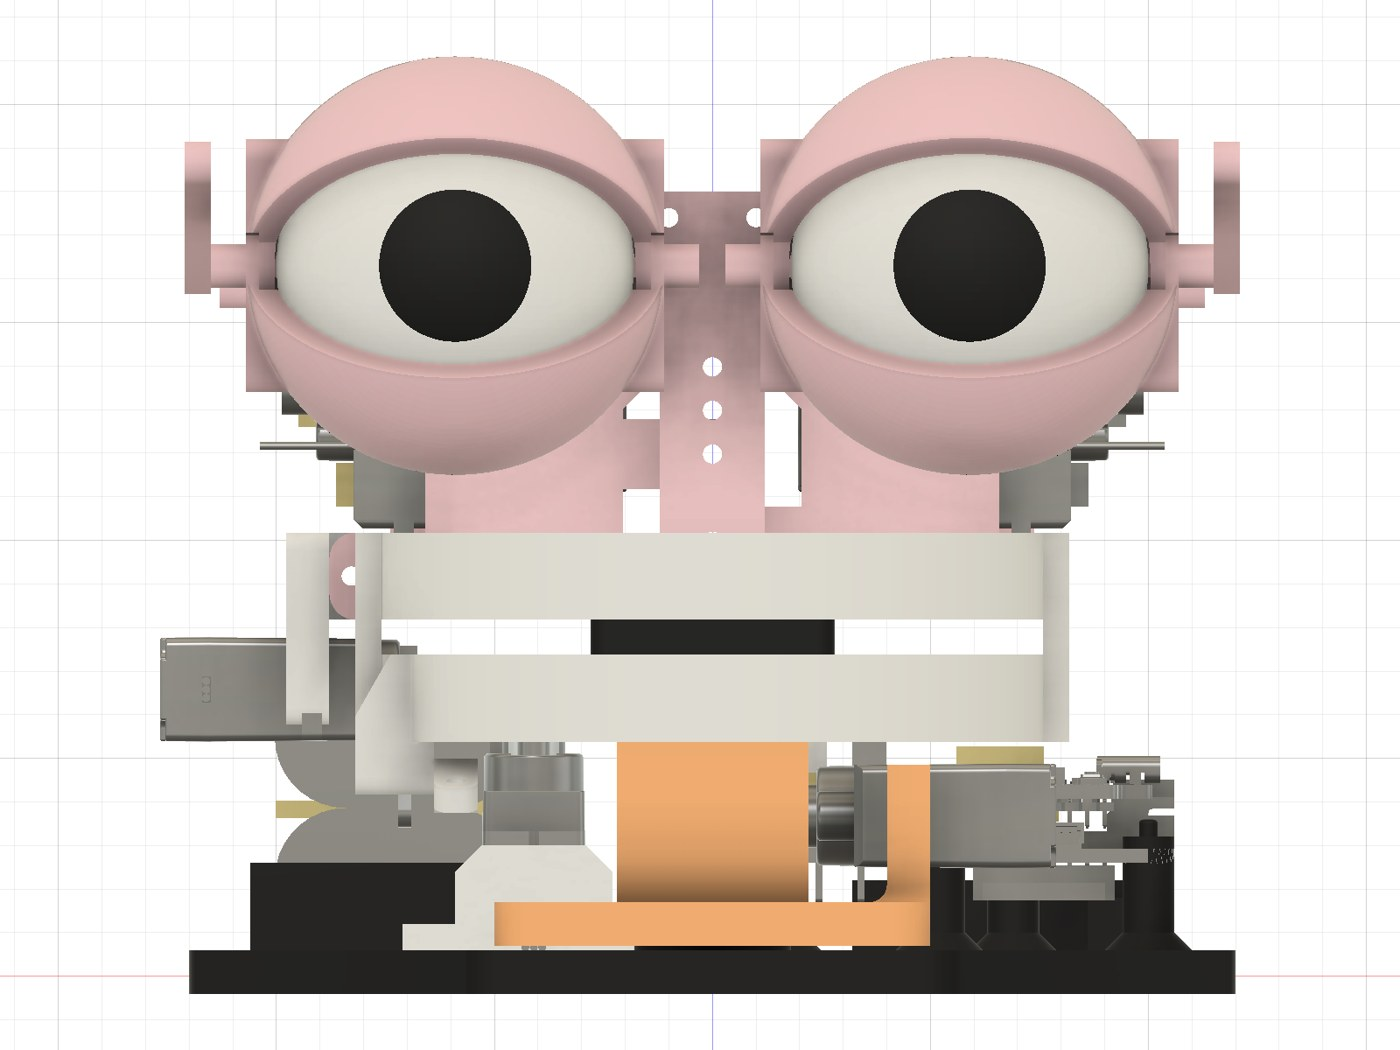
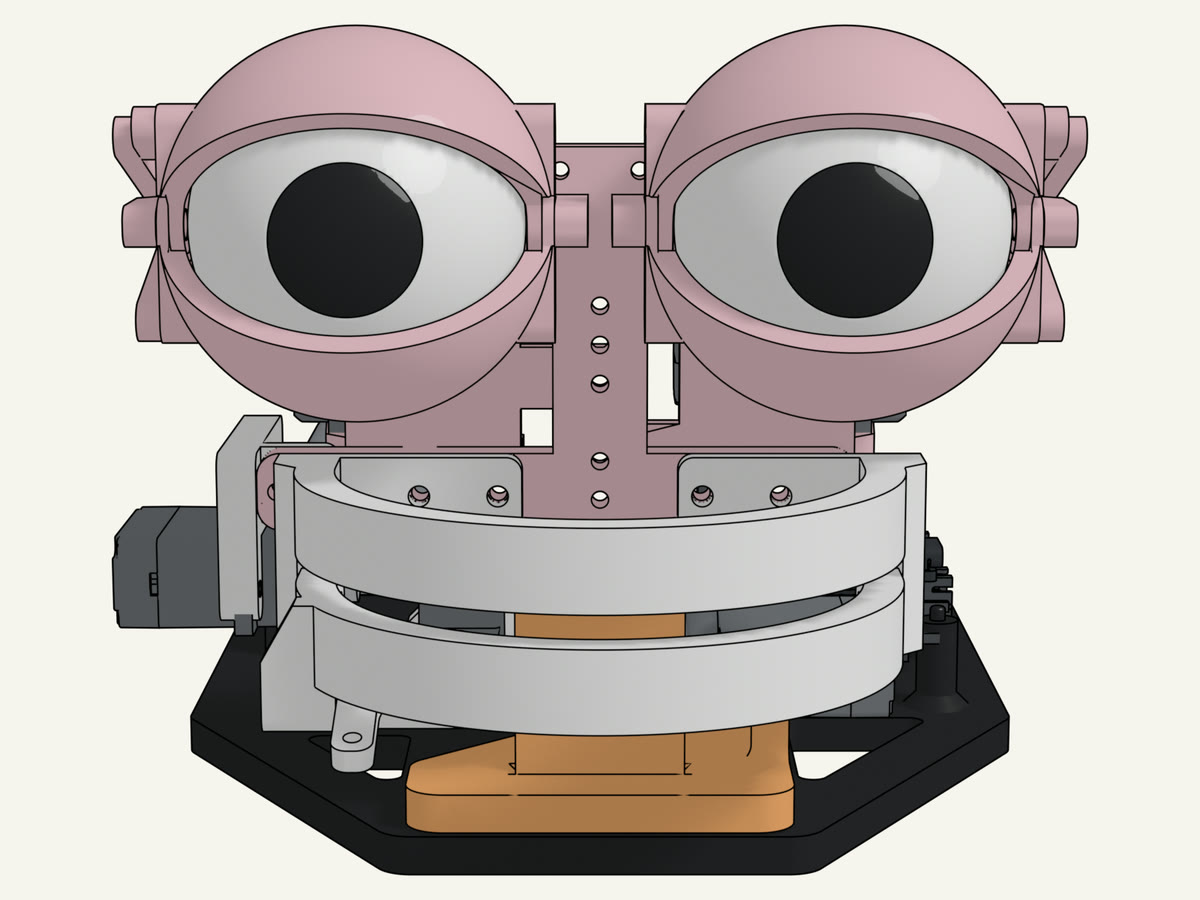
README media rendered in Blender from the model's poses (#47)
The stage 3 hero, the Stage strip and the six gesture GIFs are now Blender renders
of the engine's poses (satin plastic, soft two-step shadow, black outlines), the
GIFs posed from the Core program's own commands with the corrected lid linkage
(#48). Captions say rendered, not Fusion.

Claude-Session: https://claude.ai/code/session_013BtoicXAqi2GN3F6S5zU9D

diff --git a/README.md b/README.md
@@ -20,9 +20,9 @@ noggin uses almost all of its printed parts and hardware exactly as designed, an
 existence to that work. What this repo adds is the behaviour: the Core program, the Mac service,
 the Claude Code hooks, the Fusion model and the simulation.
 
-![The full Mech in the Fusion model: eyes on the pan-tilt stack with the mouth, in the real spool colours](docs/images/stage3-front.jpg)
+![The full Mech (Stage 3) rendered from the model: eyes on the pan-tilt stack with the mouth, in the real spool colours](docs/images/stage3-front.jpg)
 
-The gestures, replayed in the model from the Core program's own traces:
+The gestures, posed in the model from the Core program's own commands:
 
 | eureka | attention | bored |
 |---|---|---|
@@ -115,7 +115,7 @@ beside the code (`eyes/test_eyes.py`, `noggin/test_service.py`, ...). Work runs 
 
 ## The model
 
-![The three Stages in Fusion: stage 1 front (base + eyes), stage 2 side (eyes on the tilt arm), stage 3 side and front (with the mouth)](docs/images/stages.jpg)
+![The three Stages rendered from the model: stage 1 front (base + eyes), stage 2 side (eyes on the tilt arm), stage 3 side and front (with the mouth)](docs/images/stages.jpg)
 
 `model/` builds the Mech in Fusion 360 and simulates it in Python (PR #31):
 
@@ -125,9 +125,10 @@ beside the code (`eyes/test_eyes.py`, `noggin/test_service.py`, ...). Work runs 
   (`make model-parts`); Stages rebuild from it (`make model-eyes`, `model-pan-tilt`, `model-mouth`).
 - A Python simulation engine (`model/sim.py`, run by pytest): planar four-bar solver, rigid mesh
   transforms, KD-tree contact screen, mass and torque, the electrical budget. Fusion builds the
-  documents and takes the pictures; the sweeps run in seconds without it (ADR 0006).
+  documents; Blender renders every picture from the engine's poses; the sweeps run in seconds without
+  Fusion (ADR 0006).
 
-Rendering rules and the canvases are in `docs/model-notes.md`.
+Rendering rules are in `docs/model-notes.md`.
 
 ## Roadmap
 
